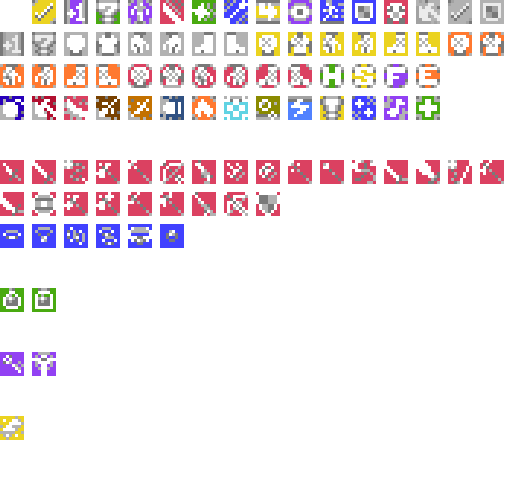
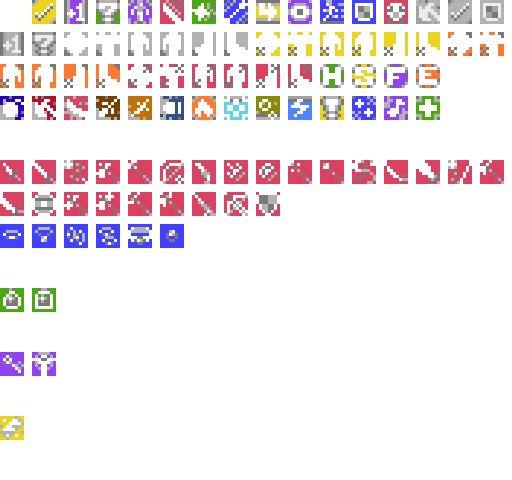
adjusted inventory windows

Changed region(s): [[0.0, 0.0625, 0.7188, 0.1875], [0.75, 0.0625, 1.0, 0.125]]

diff --git a/js/plugins/TurnBasedStrategyWindows.js b/js/plugins/TurnBasedStrategyWindows.js
@@ -4507,9 +4507,8 @@ Window_StatusAttributeDescription.prototype.drawAttributeDescription = function(
 		width = width || Graphics.boxWidth-x;
 		if (item) {
 			var iconBoxWidth = this.standardCharacterWidth()*2;
-			var iconX = this.roundToPixelGrid((iconBoxWidth - Window_Base._iconRenderWidth) / 2);
 			this.resetTextColor();
-			this.drawIcon(item.iconIndex, iconX, y);
+			this.drawIcon(item.iconIndex, x+this.standardCharacterWidth()*2-Window_Base._iconRenderWidth-this.standardPixelSize(), y+this.roundToPixelGrid((this.lineHeight()-Window_Base._iconRenderHeight)/2));
 			this.drawText(item.name, x + iconBoxWidth, y, width - iconBoxWidth);
 		}
 	};
@@ -5523,6 +5522,10 @@ Window_StatusAttributeDescription.prototype.drawAttributeDescription = function(
 		this._descriptionWindow = undefined;
 	};
 	
+	Window_ItemCategory.prototype.windowWidth = function() {
+		return this.standardPaddingTotal() + this.textPaddingTotal() + this.standardPixelSize()*3*87;
+	};
+	
 	Window_ItemCategory.prototype.maxCols = function() {
 		return 3;
 	};
@@ -5733,11 +5736,12 @@ Window_StatusAttributeDescription.prototype.drawAttributeDescription = function(
 	Window_ItemList.prototype.drawItem = function(index) {
 		var item = this._data[index];
 		var rect = this.itemRect(index);
+		var textRect = this.itemRectForText(index);
 		if (item) {
 			var numberWidth = this.numberWidth();
 			this.changePaintOpacity(this.isEnabled(item));
-			this.drawItemName(item, rect.x, rect.y, rect.width - numberWidth - this.textPadding());
-			this.drawItemNumber(item, rect.x, rect.y, rect.width - this.textPadding());
+			this.drawItemName(item, textRect.x, textRect.y, textRect.width - numberWidth);
+			this.drawItemNumber(item, textRect.x, textRect.y, textRect.width);
 			this.changePaintOpacity(1);
 		}
 		if(this._orgSelectIndex >= 0 && this._orgSelectIndex == index) {
@@ -6502,10 +6506,6 @@ Window_StatusAttributeDescription.prototype.drawAttributeDescription = function(
 	Window_EquipItem.prototype.selectLast = function() {
 		var index = this._data.indexOf($gameParty.lastItem());
 		this.select(index >= 0 ? index : 0);
-	};
-	
-	Window_EquipItem.prototype.numberWidth = function() {
-		return this.textWidth('000');
 	};
 	
 	Window_EquipItem.prototype.setSlotWindow = function(slotWindow) {

diff --git a/js/plugins/TurnBasedStrategyScene.js b/js/plugins/TurnBasedStrategyScene.js
@@ -1359,7 +1359,7 @@
 		this._actorItemWindows = [];
 		this._actorItemNameWindows = [];
 		for(i = 0; i < $gameParty.size(); i++) {
-			var nameWindowYOffset = Math.floor(Window_ItemList.prototype.lineHeight() * 1.6);
+			var nameWindowYOffset = Window_ActorItemName.prototype.windowHeight()-Window_Base.prototype.standardPadding();
 			this._actorItemNameWindows[i] = new Window_ActorItemName(0, wy);
 			this._actorItemNameWindows[i].setActor($gameParty.members()[i]);
 			this._actorItemWindows[i] = new Window_ItemList(
